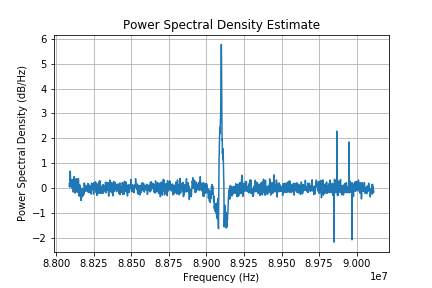
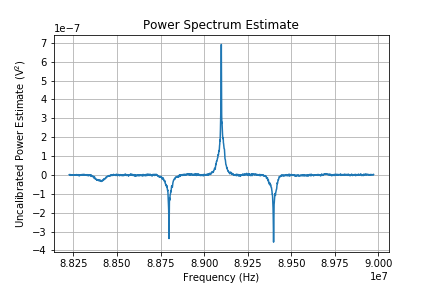
Updated fswitch to perform calculation on non-dB values. Updated notebook to match.

Changed region(s): [[0.0903, 0.0625, 0.9028, 0.9375], [0.0301, 0.2188, 0.0602, 0.8125], [0.0903, 0.7188, 0.1204, 0.75]]

diff --git a/rtlobs/collect.py b/rtlobs/collect.py
@@ -135,7 +135,6 @@ def run_spectrum_int( NFFT, gain, rate, fc, t_int ):
     freqs:    Frequencies of the resulting spectrum, centered at fc (Hz), numpy array
     p_xx_avg: Power spectral density spectrum (dB/Hz) numpy array,
     '''
-    import rtlsdr.helpers as helpers
 
     print('Initializing rtl-sdr with pyrtlsdr:')
     sdr = RtlSdr()
@@ -181,7 +180,7 @@ def run_spectrum_int( NFFT, gain, rate, fc, t_int ):
         for cnt in range(num_loops):
             iq = sdr.read_samples(NFFT)
             
-            freqs, p_xx = welch(iq, fs=rate, nperseg=NFFT, noverlap=0, scaling='density', return_onesided=False)
+            freqs, p_xx = welch(iq, fs=rate, nperseg=NFFT, noverlap=0, scaling='density', detrend=False, return_onesided=False)
             p_xx_tot += p_xx
         
         end_time = time.time()
@@ -248,7 +247,7 @@ def run_fswitch_int( NFFT, gain, rate, fc, fthrow, t_int, fswitch=10):
 
     Returns:
     freqs_fold: Frequencies of the spectrum resulting from folding according to the folding method implemented in the f_throw_fold (post_process module)
-    p_fold:     Folded frequency-switched power spectral density, centered at fc,(dB/Hz) numpy array.
+    p_fold:     Folded frequency-switched power, centered at fc,(uncalibrated V^2) numpy array.
     '''
     from .post_process import f_throw_fold 
     import rtlsdr.helpers as helpers
@@ -309,10 +308,10 @@ def run_fswitch_int( NFFT, gain, rate, fc, fthrow, t_int, fswitch=10):
                 iq = sdr.read_samples(NFFT)
 
                 if tick:
-                    freqs_on, p_xx = welch(iq, fs=rate, nperseg=NFFT, noverlap=0, scaling='density', return_onesided=False)
+                    freqs_on, p_xx = welch(iq, fs=rate, nperseg=NFFT, noverlap=0, scaling='spectrum', detrend=False, return_onesided=False)
                     p_xx_on += p_xx
                 else:
-                    freqs_off, p_xx = welch(iq, fs=rate, nperseg=NFFT, noverlap=0, scaling='density', return_onesided=False)
+                    freqs_off, p_xx = welch(iq, fs=rate, nperseg=NFFT, noverlap=0, scaling='spectrum', detrend=False, return_onesided=False)
                     p_xx_off += p_xx
                 cnt += 1
         
@@ -345,13 +344,13 @@ def run_fswitch_int( NFFT, gain, rate, fc, fthrow, t_int, fswitch=10):
         p_xx_off[half_len:] = tmp_first
 
         # Compute the average power spectrum based on the number of spectra read
-        p_avg_on  = 10.*np.log10(p_xx_on  / cnt)
-        p_avg_off = 10.*np.log10(p_xx_off / cnt)
+        p_avg_on  = p_xx_on  / cnt
+        p_avg_off = p_xx_off / cnt
         # Shift frequency spectra back to the intended range
         freqs_on = freqs_on + fc
         freqs_off = freqs_off + fthrow
 
-        # Fold switched spectra
+        # Fold switched power spectra
         freqs_fold, p_fold = f_throw_fold(freqs_on, freqs_off, p_avg_on, p_avg_off)
 
         # nice and tidy

diff --git a/rtlobs/post_process.py b/rtlobs/post_process.py
@@ -24,6 +24,7 @@ def plot_spectrum(freqs, powers, savefig=None):
 
     Returns:
     fig:      matplotlib figure handle to the generated plot
+    ax:       in case you want to add more traces
     '''
 
     fig = plt.figure()
@@ -39,7 +40,7 @@ def plot_spectrum(freqs, powers, savefig=None):
     if savefig:
         plt.savefig(savefig)
 
-    return fig
+    return fig, ax
 
 
 def f_throw_fold(freqs_on, freqs_off, p_on, p_off):
@@ -56,6 +57,8 @@ def f_throw_fold(freqs_on, freqs_off, p_on, p_off):
 
     This is meant to implement the method described here:
     http://herschel.esac.esa.int/hcss-doc-15.0/load/hifi_um/html/hcb_pfsw.html 
+    Which was in turn taken from:
+    https://aas.aanda.org/articles/aas/abs/1997/10/ds1263/ds1263.html
 
     Inputs:
     freqs_on:   Array of frequencies in power spectrum, taken at the target 
@@ -64,14 +67,14 @@ def f_throw_fold(freqs_on, freqs_off, p_on, p_off):
                 the target frequency. For "in-band" switching mode, this
                 should still contain the spectral line of interest.
 
-    p_on:       Array of power spectral density estimates (assumed dB/Hz 
-                uncalibrated), taken at the target frequency
-    p_off:      Array of power spectral density estimates (assumed dB/Hz 
-                uncalibrated), taken shifted off of the target frequency.
+    p_on:       Array, a power spectrum estimate (assumed uncalibrated 
+                V^2), taken at the target frequency
+    p_off:      Array, a power spectrum estimate (assumed uncalibrated
+                V^2), taken shifted off of the target frequency.
 
     Returns:
     freqs_fold: Array of frequencies at which the two switched spectra overlap
-    p_fold:     Folded PSD spectrum
+    p_fold:     Folded power spectrum in uncalibrated power units
     '''
 
     # Shift-and-add to fold
@@ -86,6 +89,8 @@ def f_throw_fold(freqs_on, freqs_off, p_on, p_off):
     bin_throw = np.abs(fthrow_idx - fc_idx)
 
     # Folding procedure is a shift-and-add-negate, then average
+    # Work in absolute values instead of ratios so subtraction and 
+    # division work out right
     p_diff = p_on - p_off
     # Average the spectrum of interest with the spectrum off by fthrow
     p_fold = (p_diff[bin_throw:] - p_diff[0:len(p_diff)-bin_throw]) / 2.
